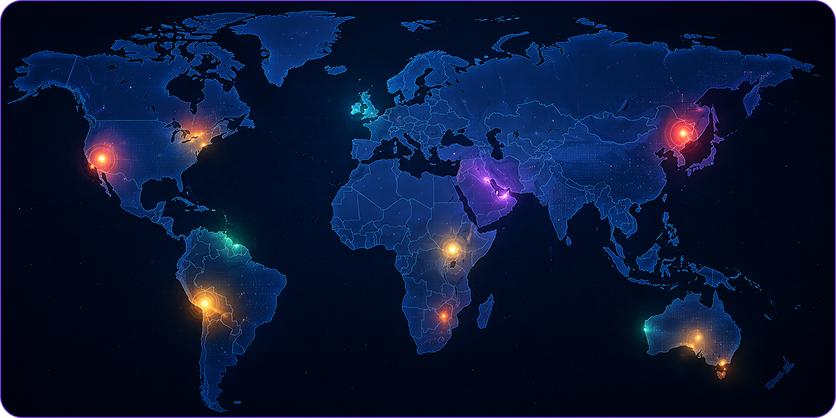
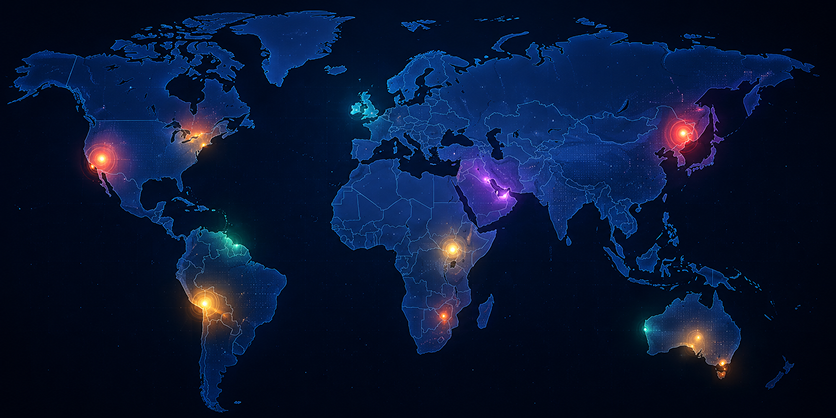
style: estiliza dashboard em tempo real

Changed region(s): [[0.0, 0.0, 1.0, 1.0], [0.0, 0.0, 0.0311, 0.0311]]

diff --git a/css/style.css b/css/style.css
@@ -264,3 +264,100 @@ nav {
     color: var(--secondary-color);
     font-size: 1.5rem;
 }
+
+/* SEÇÃO DASHBOARD */
+.dashboard-top {
+    display: flex;
+
+    justify-content: space-between;
+
+    gap: 20px;
+
+    margin-top: 50px;
+}
+
+.dashboard-stats {
+    width: 25%;
+
+    display: flex;
+    flex-direction: column;
+
+    gap: 15px;
+}
+
+.dashboard-stats span {
+    font-weight: 700;
+}
+
+.stat-item {
+    background-color: var(--card-backround);
+
+    padding: 20px;
+
+    border-radius: 10px;
+
+    display: flex;
+    align-items: center;
+
+    gap: 15px;
+}
+
+.dashboard-map  {
+    width: 80%;
+    border-radius: 8px;
+    transition: .6s;
+}
+
+.dashboard-map:hover {
+    box-shadow: 0 0 0 2px var(--ascent-color);
+    cursor: pointer;
+}
+
+.dashboard-map img {
+    width: 100%;
+    opacity: .8;
+    transition: .3s;
+    border-radius: 10px;
+}
+
+.dashboard-map:hover img {
+    opacity: 1;
+}
+
+.dashboard-alerts {
+    width: 25%;
+
+    display: flex;
+    flex-direction: column;
+
+    gap: 15px;
+}
+
+.dashboard-alerts span {
+    font-weight: 700;
+}
+
+.dashboard-alerts .secondary-p {
+    font-size: 0.7rem;
+}
+
+.alert-item {
+    background-color: var(--card-backround);
+
+    padding: 20px;
+
+    border-radius: 10px;
+
+    display: flex;
+    gap: 15px;
+}
+
+.dashboard-bottom {
+    margin-top: 40px;
+
+    display: flex;
+
+    justify-content: space-between;
+
+    gap: 20px;
+}

diff --git a/index.html b/index.html
@@ -226,7 +226,7 @@
             <div class="dashboard-map">
 
                 <img
-                    src="./assets/mapa-mundial.png"
+                    src="./assets/dashboard_map.png"
                     alt="Mapa Mundial"
                 >
 
@@ -240,8 +240,8 @@
 
                     <div>
                         <p>Foco de Queimada</p>
-                        <strong>Pantanal - MT</strong>
-                        <span>2 min atrás</span>
+                        <span>Pantanal - MT</span>
+                        <p class="secondary-p">2 min atrás</p>
                     </div>
                 </div>
 
@@ -250,8 +250,8 @@
 
                     <div>
                         <p>Risco de Enchente</p>
-                        <strong>Salvador - BA</strong>
-                        <span>15 min atrás</span>
+                        <span>Salvador - BA</span>
+                        <p class="secondary-p">15 min atrás</p>
                     </div>
                 </div>
 
@@ -260,8 +260,8 @@
 
                     <div>
                         <p>Desmatamento</p>
-                        <strong>Amazonas - AM</strong>
-                        <span>1h atrás</span>
+                        <span>Amazonas - AM</span>
+                        <p class="secondary-p">1h atrás</p>
                     </div>
                 </div>
 